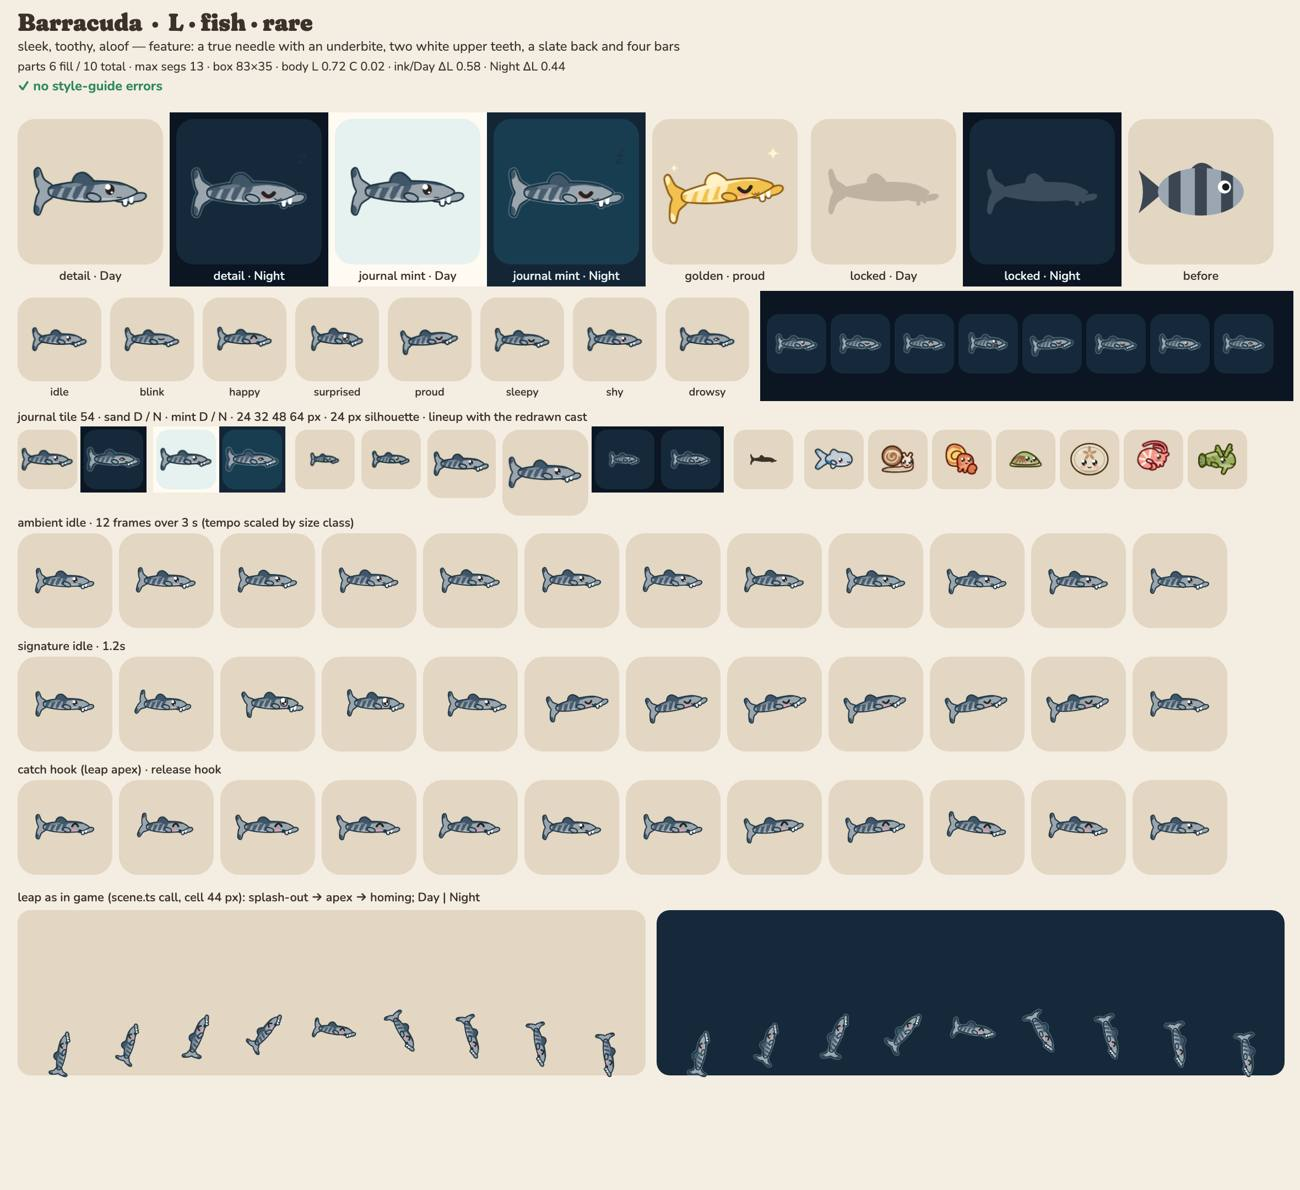
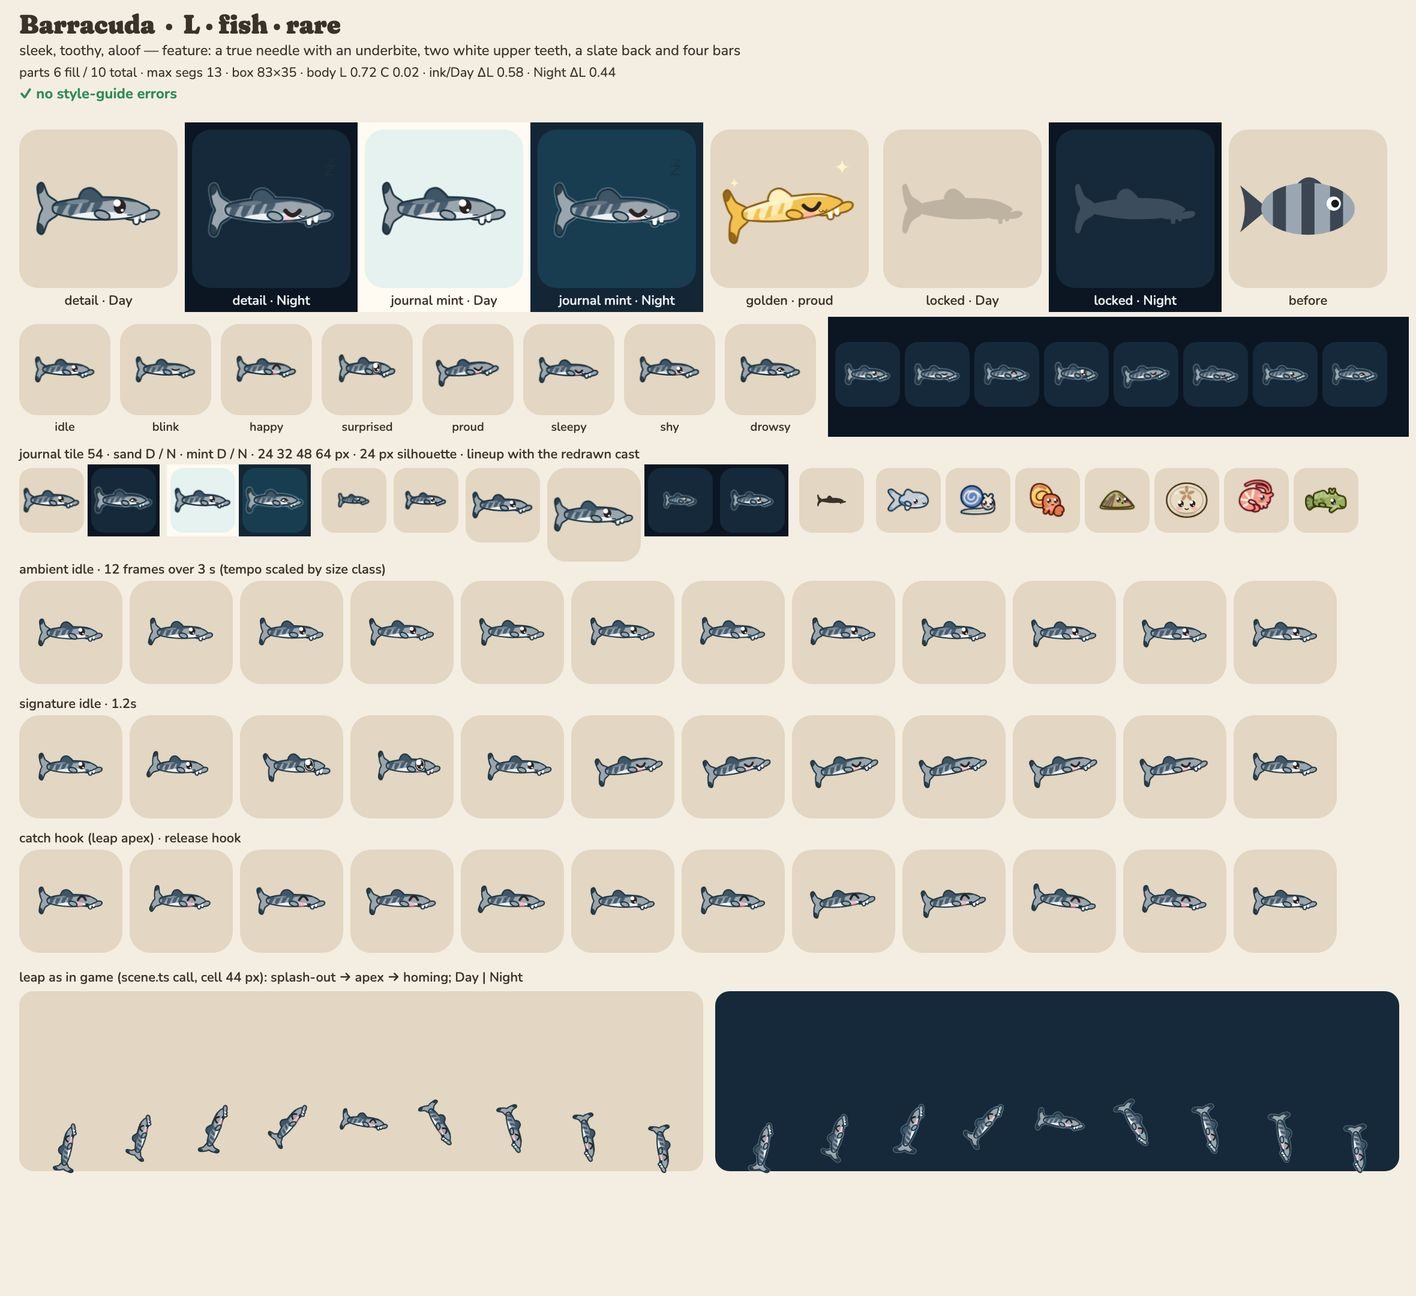
render: barracuda art (ADR 0011)
CRITIQUE-4 A- fix: white belly band #EEF2F5 along 70 % of the body
(drawn over the bars, which now stop above it), black-tipped tail lobes
(derived ink at 88 % = #2B3440 over the silver), eye 8.2 -> 10 u (zone
42 u so it stays at 24 %). Sheet: no style-guide errors.

diff --git a/src/render/art/species/barracuda.ts b/src/render/art/species/barracuda.ts
@@ -2,7 +2,8 @@
  * Barracuda — the long one (fish class, profile view, level).
  * Silhouette (R10): a true needle (≈ 4.5 : 1) whose snout tapers over the front 18 %, a lower jaw
  * jutting 6 units past it, two white upper teeth over the lip, and a crisp forked tail. Steel silver
- * with a slate back whose flat edge is the aloof brow, and four dark slanted bars.
+ * with a slate back whose flat edge is the aloof brow, four dark slanted bars, a white belly band
+ * along 70 % and black-tipped tail lobes (CRITIQUE-4).
  * Personality: sleek, toothy, aloof. Signature: a fast 10-unit lunge, then it acts as if nothing
  * happened (nose up, smug `proud` face).
  */
@@ -82,7 +83,7 @@ const bar = (x: number) =>
   tube([
     [x + 2, -5, 2.4],
     [x - 0.5, 0, 2.3],
-    [x - 2.5, 4.5, 1.9],
+    [x - 2, 3.5, 1.9],
   ]);
 const bars = join(bar(-25), bar(-17), bar(-9), bar(-1));
 export default defineArt({
@@ -91,7 +92,7 @@ export default defineArt({
   size: 'L',
   feature: 'a true needle with an underbite, two white upper teeth, a slate back and four bars',
   personality: ['sleek', 'toothy', 'aloof'],
-  palette: { body: '#9AA5AE', accent: '#3F5568' },
+  palette: { body: '#9AA5AE', accent: '#3F5568', belly: '#EEF2F5' },
   deviations: {
     R16: 'steel silver (CRITIQUE-3): chroma 0.02 is the identity, darkened to L 0.72 to sit ΔE ≥ 6 off the minnow',
     R16S: 'silver identity; the slate back, dark bars and ink outline keep it off the sand and mint',
@@ -102,7 +103,13 @@ export default defineArt({
       pivot: [-30, 0],
       parts: [
         { d: tail, role: 'body' },
-        { d: join(ellipse(-42, -14, 4, 4), ellipse(-42, 14, 4, 4)), role: 'accent', kind: 'pattern' },
+        // black-tipped lobes (CRITIQUE-4 #2B3440: the derived ink at 88 % over the silver)
+        {
+          d: join(ellipse(-42, -14.5, 4.6, 4.6), ellipse(-42, 14.5, 4.6, 4.6)),
+          role: 'ink',
+          kind: 'pattern',
+          alpha: 0.88,
+        },
       ],
     },
     {
@@ -118,9 +125,10 @@ export default defineArt({
       parts: [
         { d: dorsal, role: 'body' },
         { d: body, role: 'body' },
-        { d: ellipse(2, 8.5, 34, 3.6), role: 'belly', kind: 'pattern' },
         { d: back, role: 'accent', kind: 'pattern' },
         { d: bars, role: 'accent', kind: 'pattern', alpha: 0.9 },
+        // the white belly band along 70 % of the body (CRITIQUE-4)
+        { d: ellipse(3, 7, 23, 4.6), role: 'belly', kind: 'pattern' },
       ],
     },
     { id: 'finA', pivot: [0, 4], parts: [{ d: pectoral, role: 'body' }] },
@@ -128,8 +136,8 @@ export default defineArt({
   shine: ellipse(-14, -4.6, 8, 1.6, -4),
   face: {
     eyes: [[15, -1.5]],
-    eye: 8.2,
-    zone: [1, -24, 38, 39],
+    eye: 10,
+    zone: [1, -26, 38, 42],
     mouth: { at: [22, 4.2], w: 5, shape: 'flat' },
   },
   idle: {
